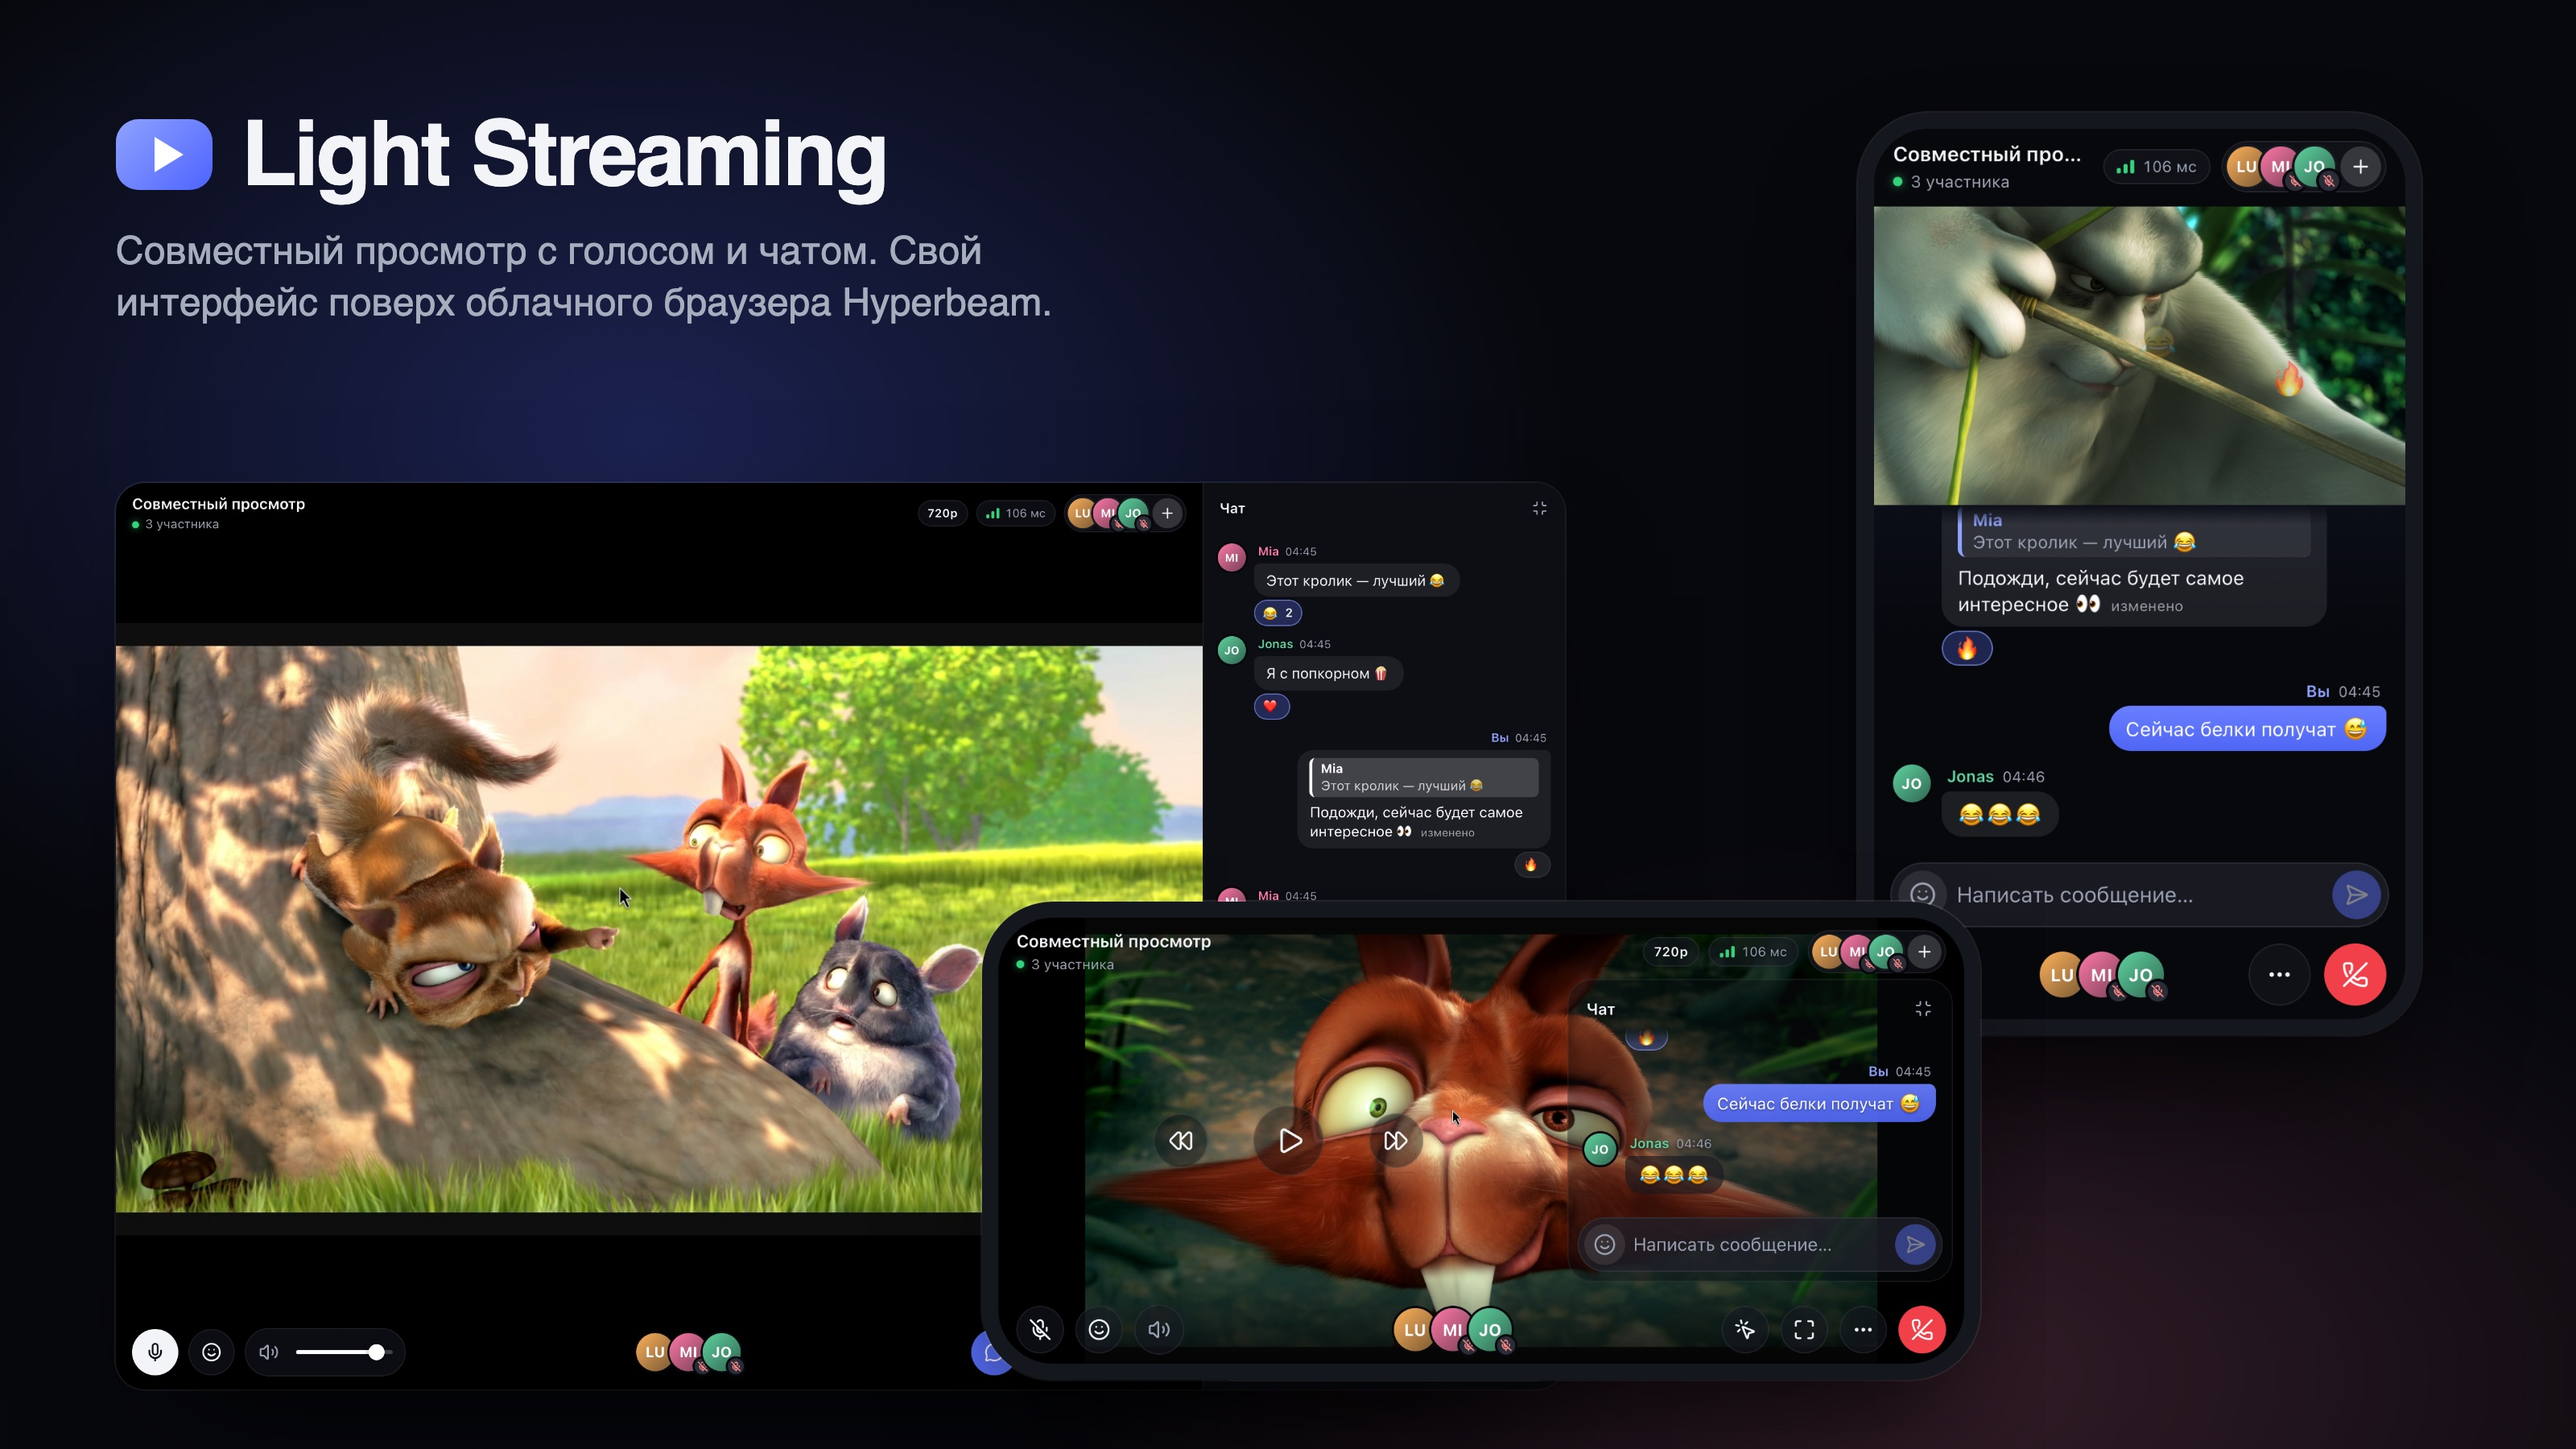
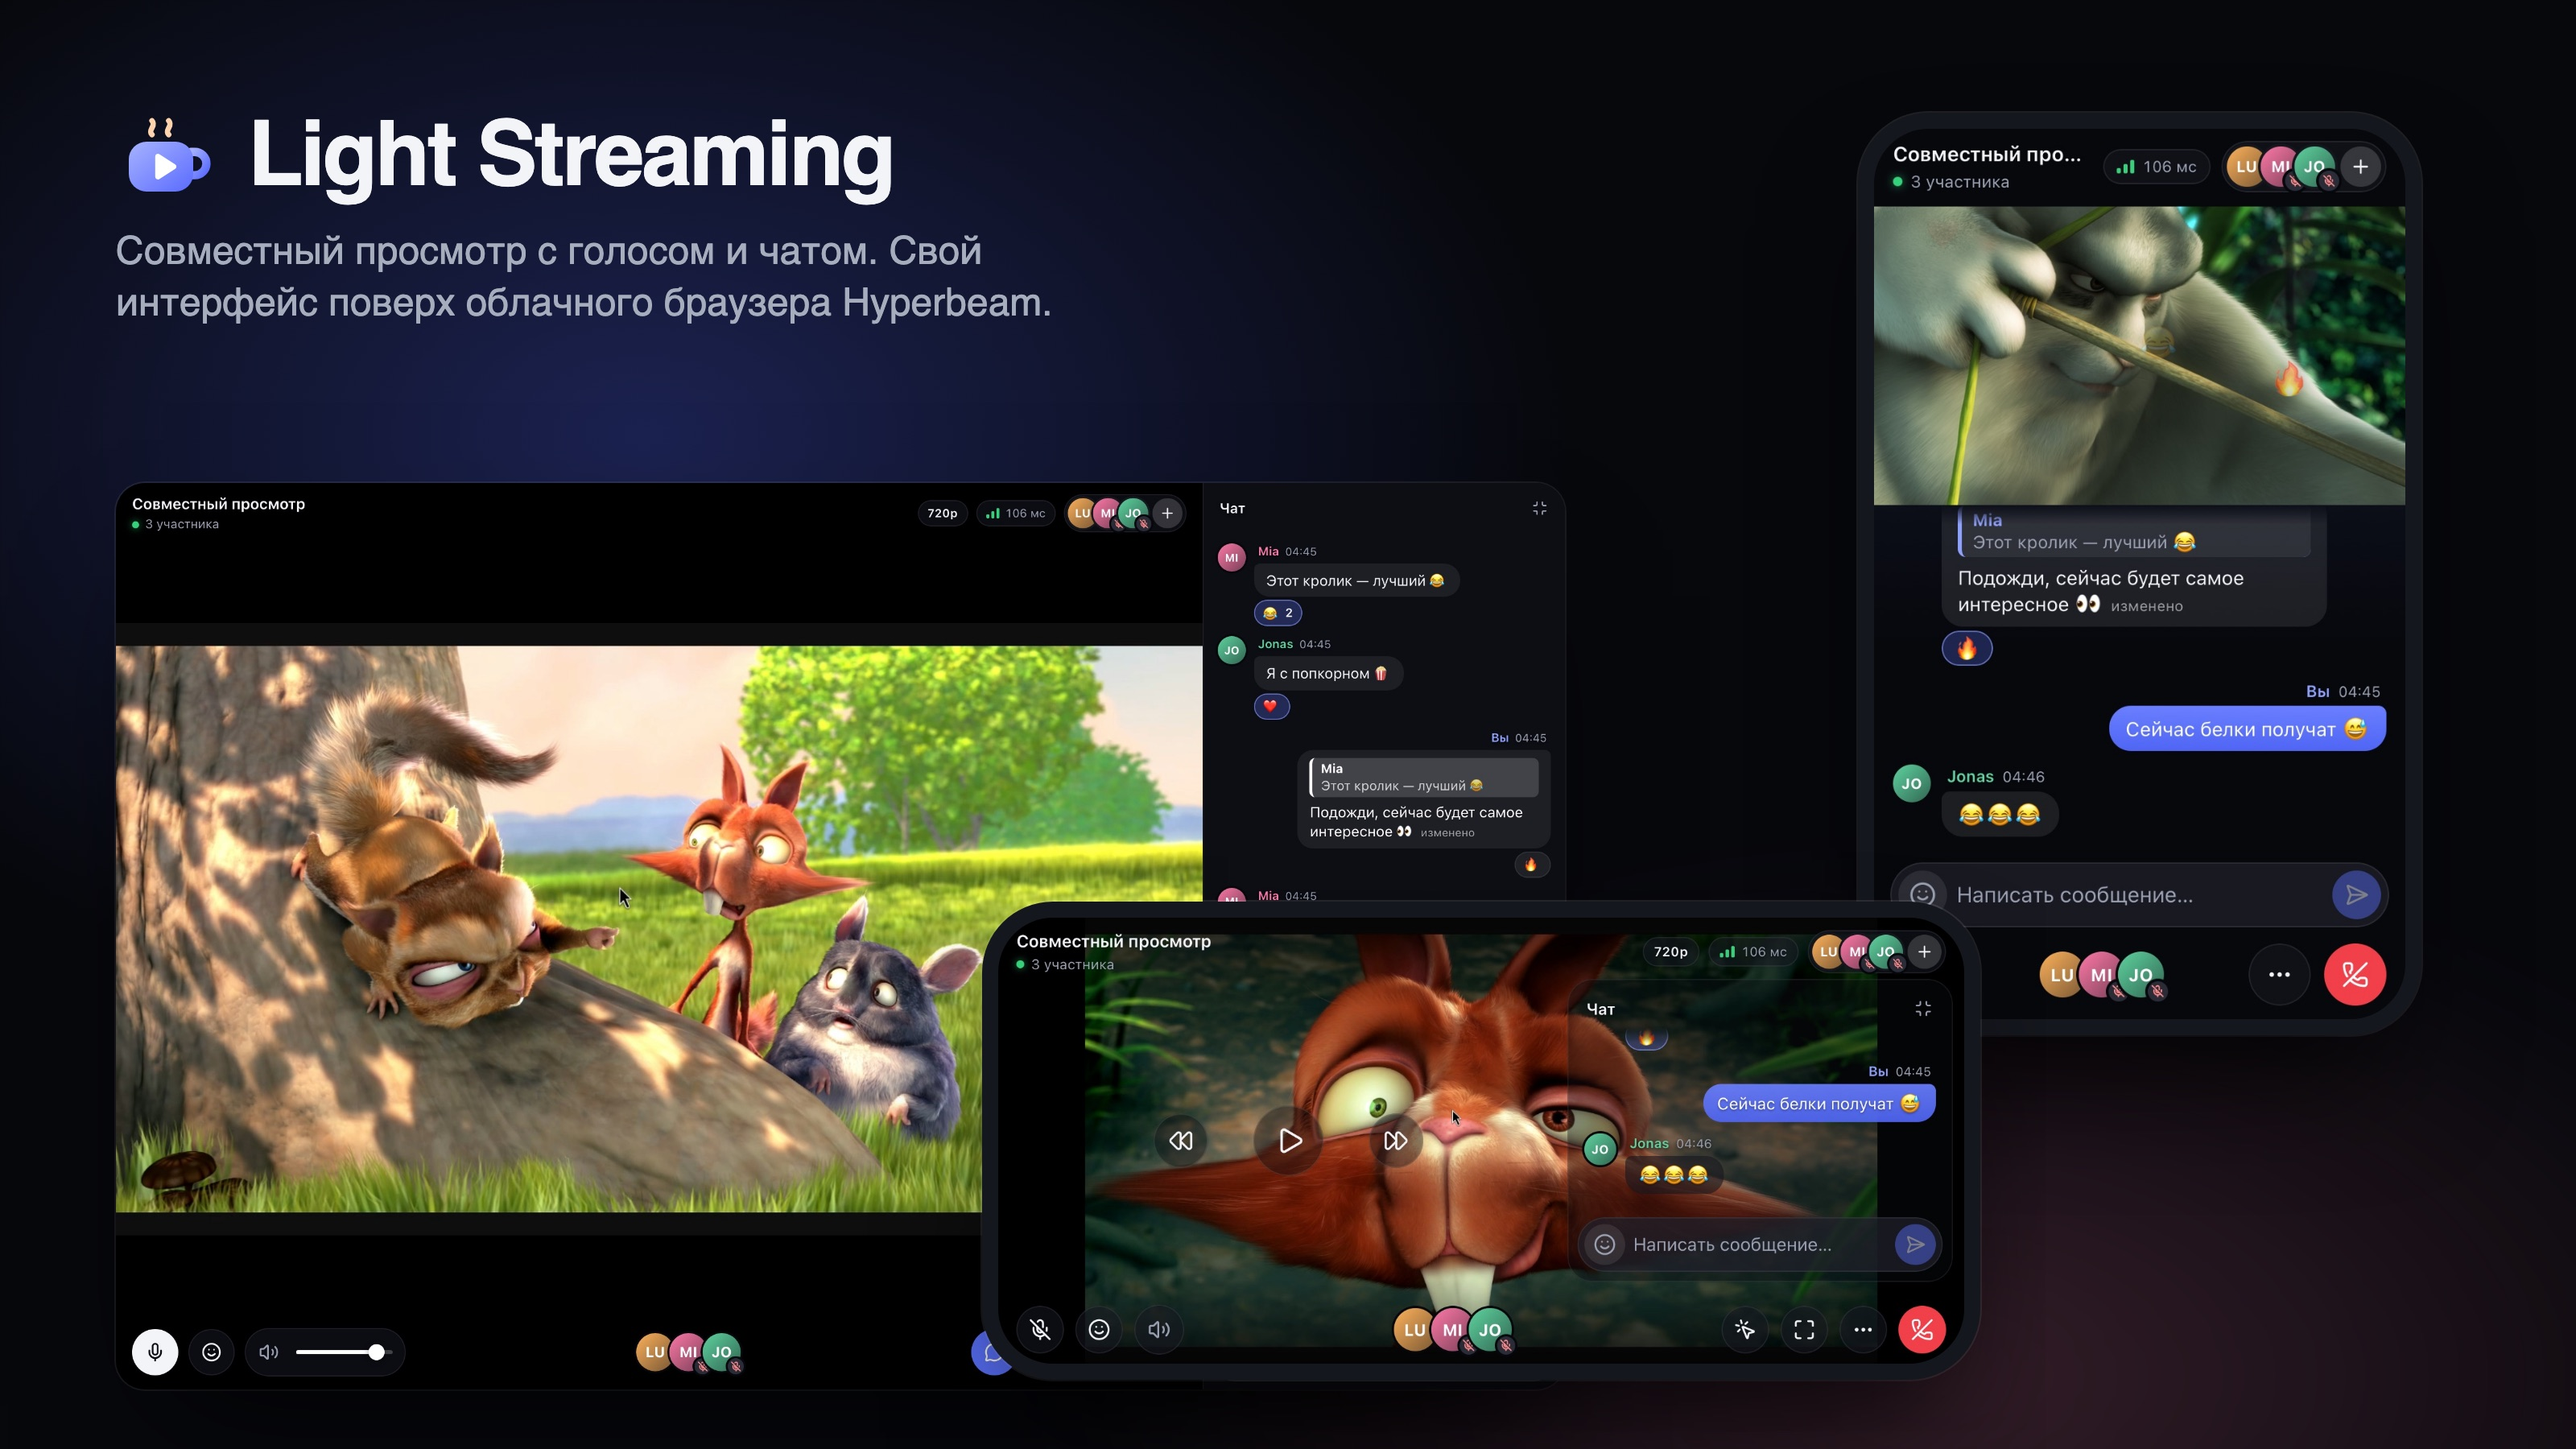
feat(brand): новый логотип — кружка с паром и кнопкой воспроизведения

Changed region(s): [[0.0312, 0.0622, 0.3438, 0.1556]]

diff --git a/src/components/ui.tsx b/src/components/ui.tsx
@@ -137,17 +137,23 @@ export function Sheet({ title, onClose, children, className = "" }: { title: str
   );
 }
 
+/** Знак: кружка с паром и кнопкой воспроизведения — стриминг на чилле, с кофейком. */
 export function Logo({ size = 28 }: { size?: number }) {
   return (
     <svg width={size} height={size} viewBox="0 0 32 32" aria-hidden="true" className="logo">
       <defs>
-        <linearGradient id="lsg" x1="0" y1="0" x2="1" y2="1">
-          <stop offset="0" stopColor="#8fa2ff" />
-          <stop offset="1" stopColor="#4d63ff" />
+        <linearGradient id="ls-mug" x1="0" y1="0" x2="1" y2="1">
+          <stop offset="0" stopColor="#a7b3ff" />
+          <stop offset="1" stopColor="#5a6bff" />
         </linearGradient>
       </defs>
-      <rect x="2" y="6" width="28" height="20" rx="7" fill="url(#lsg)" />
-      <path d="M13.5 11.8v8.4c0 .6.7 1 1.2.7l6.6-4.2c.5-.3.5-1.1 0-1.4l-6.6-4.2c-.5-.3-1.2.1-1.2.7Z" fill="#fff" />
+      <g stroke="#ffd3ad" strokeWidth="1.7" strokeLinecap="round" fill="none">
+        <path d="M11.2 9.8c-1.5-1.4 1.5-2.7 0-4.3" />
+        <path d="M16.4 9.8c-1.5-1.4 1.5-2.7 0-4.3" />
+      </g>
+      <path d="M23.2 15.2h1.3a3.6 3.6 0 0 1 0 7.2h-1.3" stroke="url(#ls-mug)" strokeWidth="2.6" strokeLinecap="round" fill="none" />
+      <rect x="4" y="12" width="20" height="15.5" rx="5.5" fill="url(#ls-mug)" />
+      <path d="M12.2 16.6v6.3c0 .65.72 1.05 1.27.7l4.95-3.15c.5-.32.5-1.08 0-1.4l-4.95-3.15c-.55-.35-1.27.05-1.27.7Z" fill="#fff" />
     </svg>
   );
 }

diff --git a/index.html b/index.html
@@ -15,7 +15,7 @@
     <meta name="apple-mobile-web-app-title" content="Light Streaming" />
     <link rel="manifest" href="/manifest.webmanifest" />
     <link rel="icon" href="/icon.svg" type="image/svg+xml" />
-    <link rel="apple-touch-icon" href="/icon.svg" />
+    <link rel="apple-touch-icon" href="/apple-touch-icon.png" />
     <title>Light Streaming</title>
   </head>
   <body>
